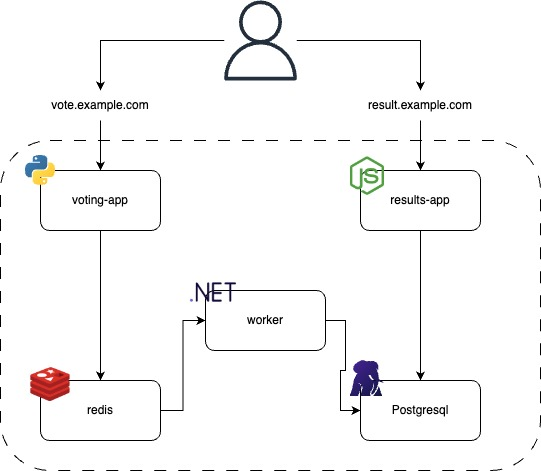
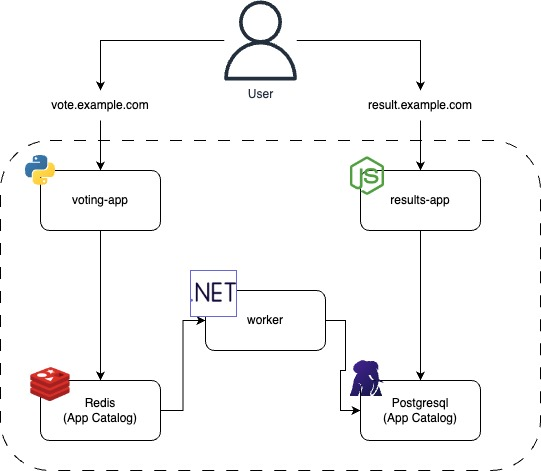
Updated README.md

diff --git a/README.md b/README.md
@@ -8,81 +8,101 @@ This repo contains the source code to build the `vote`, `worker` and `results` i
 
 ## Building the images
 
-Use the Build feature in Otomi to build the images with `mode-Docker`. Set the `path` to `./vote/Dockerfile` (or `./worker/Dockerfile` or `./result/Dockerfile`).
+Use the [Build feature in Otomi](https://otomi.io/docs/get-started/labs/lab-6#build-the-blue-image) to build the images with `Docker` mode for the `result`,`vote` and `worker` components: 
+1. Set the build name (ex. `voting-app-vote`)
+2. Set the `Repo URL` to `https://github.com/redkubes/example-voting-app.git`
+3. Set the `path` to `./vote/Dockerfile` 
+4. Repeat step 1,2 and 3 for the other 2 components
+    - use `./result/Dockerfile` and `./worker/Dockerfile` paths respectively
+
 
 ## Create a Redis cluster and a PostgreSQL database
 
-Use the `postgresql` and the `redis` charts in the Otomi Catalog to create a Redis master-replica cluster and a PostgreSQL database. For this demo, Redis authentication needs to be turned off by setting `auth.enabled=false`.
-
+Use the `postgresql` and the `redis` charts in the Otomi `Catalog` to create a Redis master-replica cluster and a PostgreSQL database. 
+- **Postgresql**:
+  - Name: `<postgesql app name>` (E.g.`voting-app-psql`).
+  - Click `Submit` (can use default values for this example)
+- **Redis**:
+  - Name: `<redis app name>` (E.g.`voting-app-redis`).
+  - For this demo, Redis authentication needs to be turned off by setting 
+      ```yaml
+    auth:
+      enabled: false
+    ```
+    in the chart `Values` editor.
+  - Click `Submit` and then `Deploy`
 ## Deploy the Vote app
 
 Use the `k8s-deployment` chart to deploy the vote app. Use the following values:
 
-Name: `vote`
-
-```yaml
-containerPorts:
-  - name: http
-    containerPort: 80
-    protocol: TCP
-env:
-  - name: REDIS_HOST
-    value: <redis-cluster-name>-master
-```
+- Name: `voting-app-vote`
+- Update Values:
+  ```yaml
+  containerPorts:
+    - name: http
+      containerPort: 80
+      protocol: TCP
+  env:
+    - name: REDIS_HOST
+      value: <redis-cluster-name>-master # E.g. voting-app-redis-master
+  ```
+- Click `Submit`
 
 ## Deploy the Worker app
 
 Use the `k8s-deployment` chart to deploy the worker app. Use the following values:
 
-Name: `worker`
-
-```yaml
-containerPorts:
-  - name: http
-    containerPort: 80
-    protocol: TCP
-env:
-  - name: DATABASE_USER
-    valueFrom:
-      secretKeyRef:
-        name: <psql-cluster-name>-superuser
-        key: username
-  - name: DATABASE_PASSWORD
-    valueFrom:
-      secretKeyRef:
-        name: <psql-cluster-name>-superuser
-        key: password
-  - name: REDIS_HOST
-    value: <redis-cluster-name>-master
-  - name: DATABASE_HOST
-    value: <psql-cluster-name>-rw
-```
+- Name: `voting-app-worker`
+- Update Values:
+  ```yaml
+  containerPorts:
+    - name: http
+      containerPort: 80
+      protocol: TCP
+  env:
+    - name: DATABASE_USER
+      valueFrom:
+        secretKeyRef:
+          name: <psql-cluster-name>-superuser # E.g. voting-app-psql-superuser
+          key: username
+    - name: DATABASE_PASSWORD
+      valueFrom:
+        secretKeyRef:
+          name: <psql-cluster-name>-superuser # E.g. voting-app-psql-superuser
+          key: password
+    - name: REDIS_HOST
+      value: <redis-cluster-name>-master      # E.g. voting-app-redis-master
+    - name: DATABASE_HOST
+      value: <psql-cluster-name>-rw           # E.g. voting-app-psql-rw
+  ```
+- Click `Submit`
 
 ## Deploy the Result app
 
 Use the `k8s-deployment` chart to deploy the result app. Use the following values:
 
-Name: `result`
-
-```yaml
-containerPorts:
-  - name: http
-    containerPort: 80
-    protocol: TCP
-env:
-  - name: DATABASE_USER
-    valueFrom:
-      secretKeyRef:
-        name: <psql-cluster-name>-superuser
-        key: username
-  - name: DATABASE_PASSWORD
-    valueFrom:
-      secretKeyRef:
-        name: <psql-cluster-name>-superuser
-        key: password
-  - name: DATABASE_HOST
-    value: <psql-cluster-name>-rw
-```
+- Name: `voting-app-result`
+- Update Values:
+  ```yaml
+  containerPorts:
+    - name: http
+      containerPort: 80
+      protocol: TCP
+  env:
+    - name: DATABASE_USER
+      valueFrom:
+        secretKeyRef:
+          name: <psql-cluster-name>-superuser # E.g. voting-app-psql-superuser
+          key: username
+    - name: DATABASE_PASSWORD
+      valueFrom:
+        secretKeyRef:
+          name: <psql-cluster-name>-superuser # E.g. voting-app-psql-superuser
+          key: password
+    - name: DATABASE_HOST
+      value: <psql-cluster-name>-rw           # E.g. voting-app-psql-rw
+  ```
+- Click `Submit` and then `Deploy`
 
 ## Register the services
 
@@ -92,12 +112,13 @@ Register the `vote` and `result` services in Otomi and configure them for extern
 
 - Register the `vote` service 
 - Set exposure to `External`
-
+- Click `Submit`
 
 ### Result
 
-- Register the `<result>` service 
+- Register the `result` service 
 - Set exposure to `External`
+- Click `Submit` and then `Deploy`
 
 ## Network Policies
 
@@ -106,15 +127,17 @@ If `Network policies` are enabled, then register all services and configure the 
 ### Postgres Database
 - Create a new Netpol and select the ingress rule type.
 - Add the selector label name `otomi.io/app`.
-- Add the selector label value `<postgres-workload-name>`.
+- Add the selector label value `<postgres-workload-name>` (E.g. `voting-app-psql`).
 - Select AllowOnly.
-- Add the namespace `<team-name>`, the selector label name `otomi.io/app` and the selector label value `<worker>`.
-- Add the namespace `<team-name>`, the selector label name `otomi.io/app` and the selector label value `<result>`.
+- Add the namespace `<team-name>` (E.g. `team-demo`), the selector label name `otomi.io/app` and the selector label value `<worker>` (E.g. `voting-app-worker`).
+- Add the namespace `<team-name>` (E.g. `team-demo`), the selector label name `otomi.io/app` and the selector label value `<result>` (E.g. `voting-app-result`).
+- Click `Submit`
 
 ### Redis
 - Create a new Netpol and select the ingress rule type.
 - Add the selector label name `otomi.io/app`.
-- Add the selector label value `<redis-workload-name>`.
+- Add the selector label value `<redis-workload-name>` (E.g. `voting-app-redis`).
 - Select AllowOnly.
-- Add the namespace `<team-name>`, the selector label name `otomi.io/app` and the selector label value `<worker>`.
-- Add the namespace `<team-name>`, the selector label name `otomi.io/app` and the selector label value `<vote>`.
+- Add the namespace `<team-name>` (E.g. `team-demo`), the selector label name `otomi.io/app` and the selector label value `<worker>` (E.g. `voting-app-worker`).
+- Add the namespace `<team-name>` (E.g. `team-demo`), the selector label name `otomi.io/app` and the selector label value `<vote>` (E.g. `voting-app-vote`).
+- Click `Submit` and then `Deploy`
